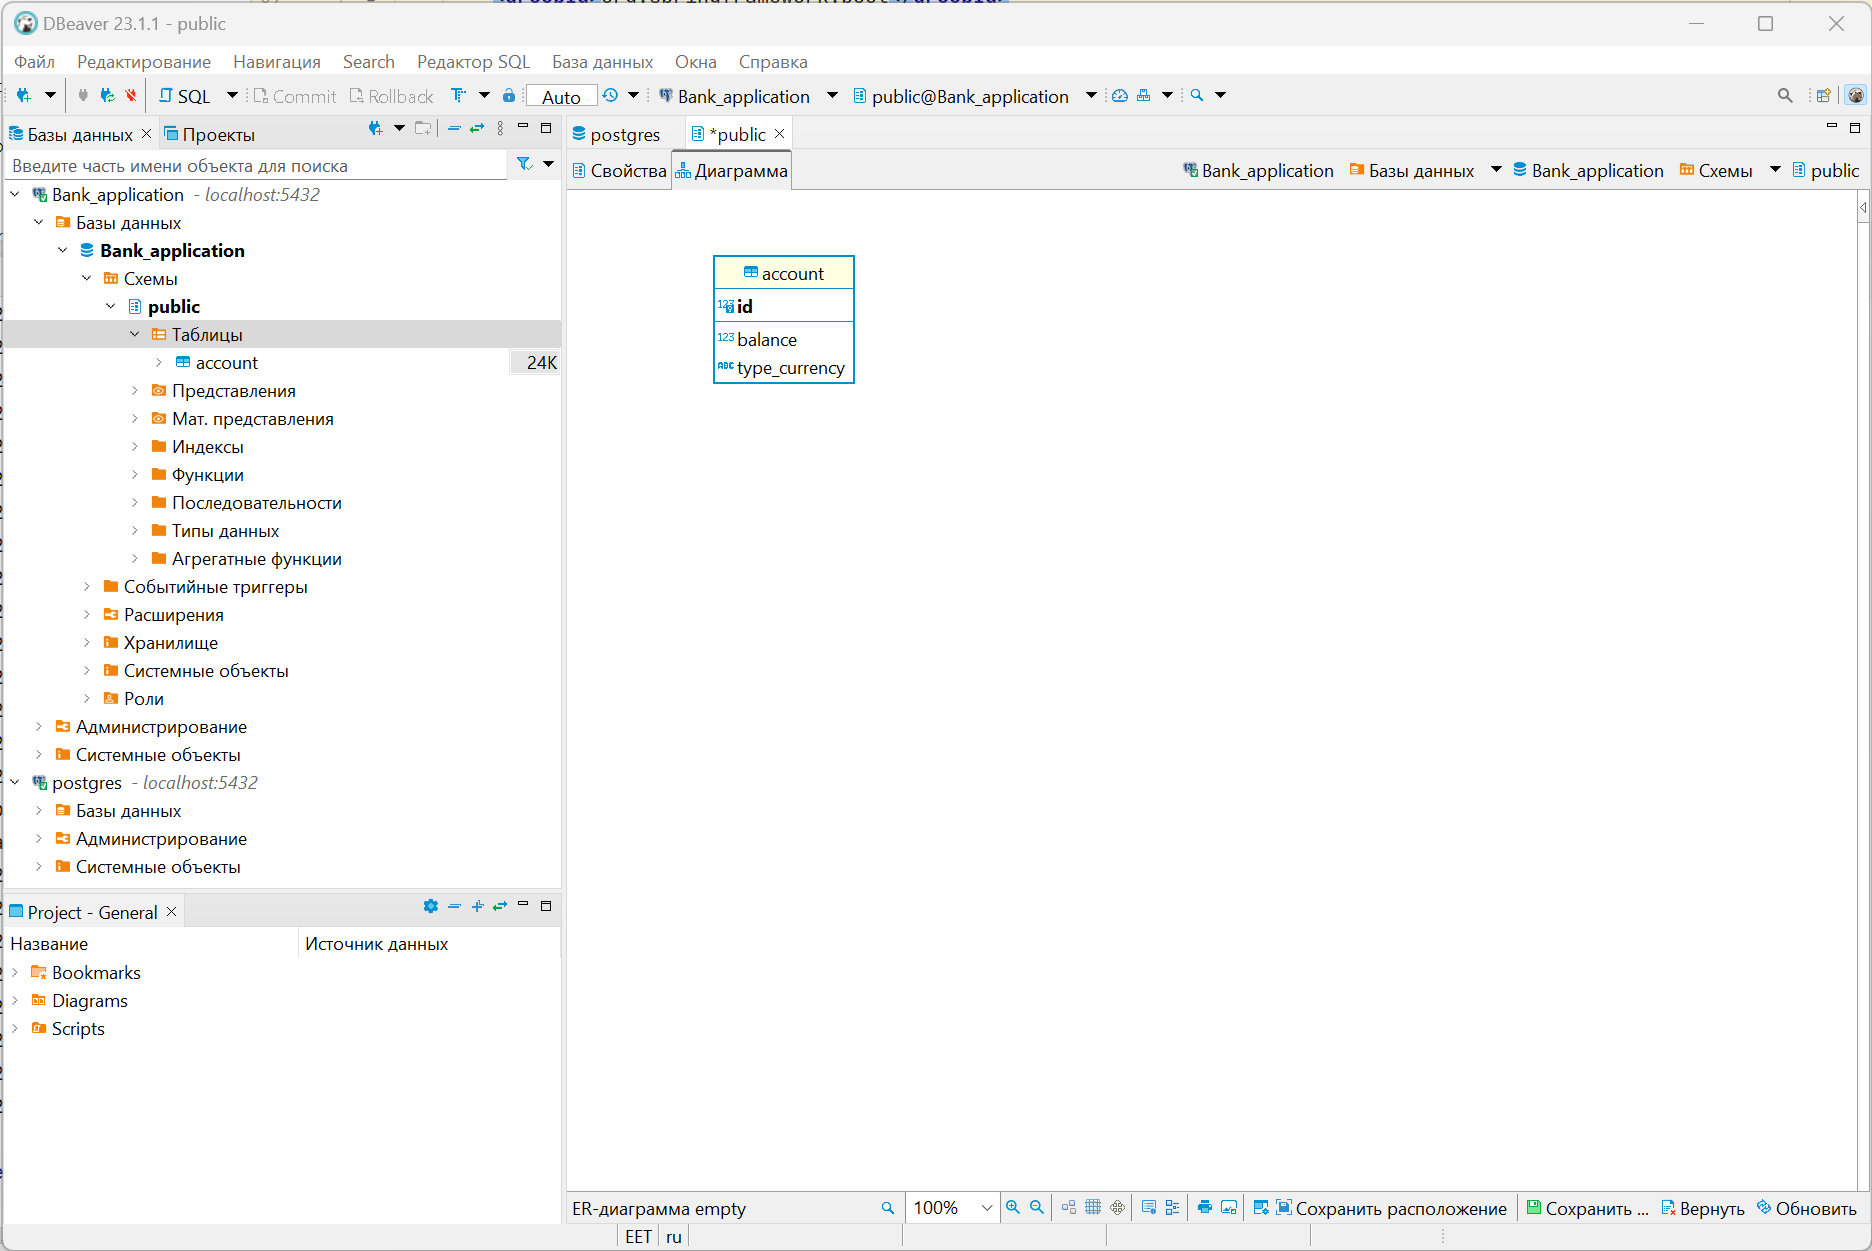
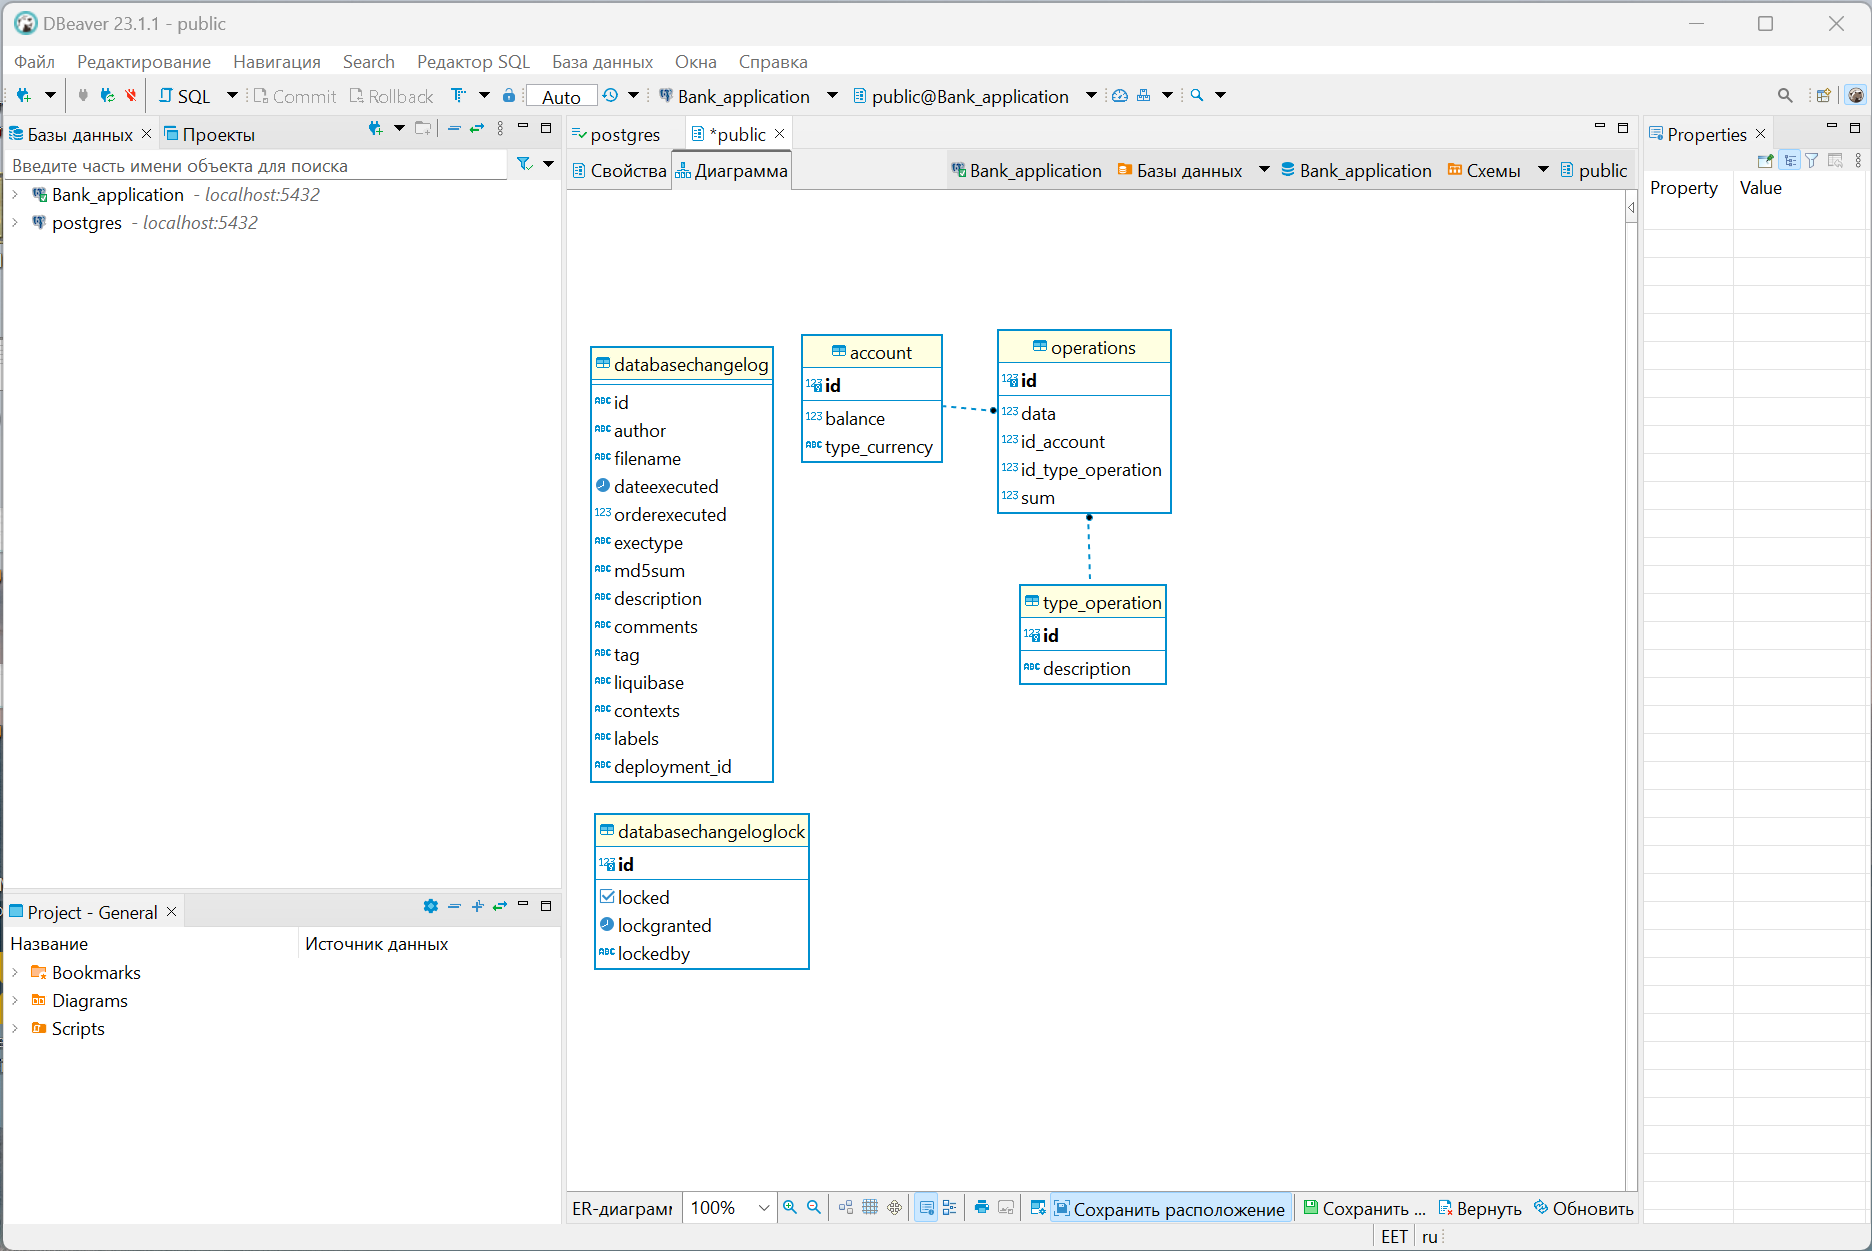
Add new Schema and Readme

diff --git a/README.md b/README.md
@@ -10,6 +10,7 @@
      <li>Запроса баланса</li>
      <li>Снятие со счёта денежных средств</li>
      <li>Внесения на счёт денежных средств</li>
+     <li>Отображение списка операций за выбранный период</li>
   </ul>
   <h3>Для работы приложения необходимо:</h3>
       <li><a href="https://en.wikipedia.org/wiki/PostgreSQL">Database PostgresSQL</a></li>
@@ -17,21 +18,27 @@
        <p>Для запуска программы необходимо прописать настройки подключения в файл <b>external.properties</b> который должен находится в корневой папке проекта, либо после сборки приложения этот файл должен лежать в одной папке с jar файлом приложения.
        В этом файле укажите название базы данных, которая должна быть созданна заранее(
          <code>spring.datasource.url=jdbc:postgresql://localhost:5432/Bank_application</code>).
-         При старте приложение, в этой базе данных , автоматически создается таблица Account где и будут хранится данные пользователя(<i>номер счёта, баланс, тип валюты</i>).Обращаясь к
-         контроллерам по их адресу реализуется выше указанный операции.</p>
+         При старте приложение, в этой базе данных , автоматически создаются таблицы ACCOUNT, OPERATIONS и TYPE_OPERATION где и будут хранится данные пользователя(<i>номер счёта, баланс, тип валюты</i>), данные выполненных операций(<i>дата, номер счёта, тип операции, сумма операции</i>) и перечнь возможных операций. Обращаясь к
+         контроллерам по их адресу реализуется выше указанный типы операции.</p>
          <h3>В приложении так же реализовано:</h3>
     <ul>
        <li>Логгирование с использованием log4j2</li>
           <p>Настройки логирование находятся в файле <b>log4j2-spring.xml</b>.
-          Сами логи пишутся в файл <b>application.log</b>, который лежит в папке <code>logs</code>.
+          Сами логи пишутся в файл <b>application.log</b>, который лежит в папке <code>logs</code>.</p>
        <li><a href="https://swagger.io/solutions/api-documentation/">Swagger</a></li>
-            Фреймворк Swagger позволяет разработчикам создавать интерактивную, удобочитаемую для машин и человека документацию по API.
+            <p>Фреймворк Swagger позволяет разработчикам создавать интерактивную, удобочитаемую для машин и человека документацию по API.
             Swagger доступен при запущенном приложении по адресу:<a href="http://localhost:8080/swagger-ui/index.html#/"> http://localhost:8080/swagger-ui/index.html#/</a>.</p>
        <li>Тестирование</li>
-            Тестирование проходит в тестовой базе данных, на тестовых данных. Настройки подключение лежат в файле <b>application.properties</b> по адрессу <code>Bank-application\src\test\resources</code>. В этом файле укажите название базы данных, которая должна быть созданна заранее.
+            <p>Тестирование проходит в тестовой базе данных, на тестовых данных. Настройки подключение лежат в файле <b>application.properties</b> по адрессу <code>Bank-application\src\test\resources</code>. В этом файле укажите название базы данных, которая должна быть созданна заранее.</p>
+         <li>Система контроля версии БД с использованием <a href="https://www.liquibase.com/">Liquibase</a></li>
+           <p>В процессе реализации поставленной задачи было необходимо регулярно дорабатывать БД. Что бы этот процесс был легко отслеживаемым, управляемым и 
+               безопасным в проект было внедрено это программное обеспечение. Для легкого создания сценария миграции базы данных для Liquibase использовался плагин 
+               <a href="https://jpa-buddy.com/">JPA Buddy</a>.</p>
     </ul>
 <h3>Cкриншот структуры базы данных:</h3>
 <a><img src="SchemaDb.png" width="200" height="200"></a>
   
  
+ 
+
  
